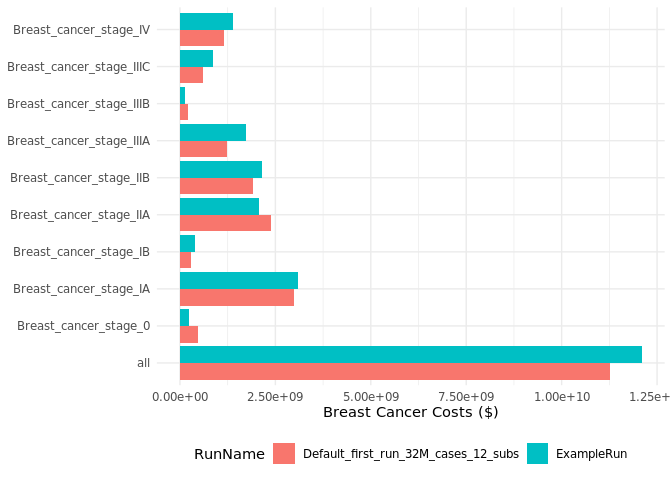
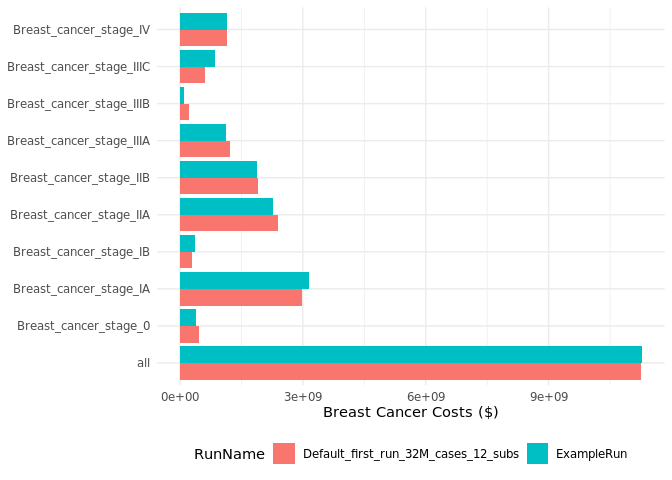
README updates

diff --git a/README.md b/README.md
@@ -108,7 +108,7 @@ get_worksets('OncoSimX-breast')
 #>   ModelName     ModelDigest ModelVersion ModelCreateDateTime Name  BaseRunDigest
 #>   <chr>         <chr>       <chr>        <chr>               <chr> <chr>        
 #> 1 OncoSimX-bre… 528f94c152… 3.6.1.5      2023-06-13 15:54:0… Defa… ""           
-#> 2 OncoSimX-bre… 528f94c152… 3.6.1.5      2023-06-13 15:54:0… MyNe… "e588fec0286…
+#> 2 OncoSimX-bre… 528f94c152… 3.6.1.5      2023-06-13 15:54:0… MyNe… ""           
 #> # ℹ 5 more variables: IsReadonly <lgl>, UpdateDateTime <chr>,
 #> #   IsCleanBaseRun <lgl>, Txt <list<tibble[,3]>>, Param <list>
 ```
@@ -179,19 +179,26 @@ parameter from the base run and extract it to a CSV file for editing.
 new_scenario <- load_scenario('OncoSimX-breast', 'MyNewScenario')
 new_scenario$copy_param('ProvincesOfInterest')
 new_scenario$extract_param('ProvincesOfInterest')
+new_scenario$upload_params()
 ```
 
 We didn’t make any changes to the parameters, but we will run the model
 anyway. We will give it the name `'ExampleRun'`. We use the
 `wait = TRUE` flag to make sure we want for the model run to finish
 before returning to our R session. Note that model runs may take a long
-time.
+time when the number of simulation cases is large.
 
 ``` r
 new_scenario$run('ExampleRun', wait = TRUE)
 ```
 
-Now that our model run is complete, lets load it into memory.
+Note that we can use the `opts` argument and the `opts_run()` function
+to configure our run. By default, models are run with 5,000 simulation
+cases and 12 SubValues. This allows for quick model runs and faster
+iteration, but users will want to increase the number of simulation
+cases when performing a full model run.
+
+Now that our model run is complete, let’s load it into memory.
 
 ``` r
 example_run <- load_run('OncoSimX-breast', 'ExampleRun')
@@ -201,7 +208,7 @@ example_run
 #> → ModelDigest: 528f94c1525c994b010d84507ed7903f
 #> → ModelVersion: 3.6.1.5
 #> → RunName: ExampleRun
-#> → RunDigest: d9f62bf0bd4f1a80b95daa4338b5d001
+#> → RunDigest: f5387acf02f27944e323fac795f1bba6
 ```
 
 We can now extract an output table from this model run using
@@ -218,16 +225,17 @@ example_run$get_table('Breast_Cancer_Cases_Table')
 #>  4 Incidence_of_i_x_d_DCIS_combined Newfoundland_and_Labrador  2018 0           
 #>  5 Incidence_of_i_x_d_DCIS_combined Newfoundland_and_Labrador  2019 0           
 #>  6 Incidence_of_i_x_d_DCIS_combined Newfoundland_and_Labrador  2020 0           
-#>  7 Incidence_of_i_x_d_DCIS_combined Newfoundland_and_Labrador  2021 1722.898548…
+#>  7 Incidence_of_i_x_d_DCIS_combined Newfoundland_and_Labrador  2021 861.5526521…
 #>  8 Incidence_of_i_x_d_DCIS_combined Newfoundland_and_Labrador  2022 0           
-#>  9 Incidence_of_i_x_d_DCIS_combined Newfoundland_and_Labrador  2023 0           
+#>  9 Incidence_of_i_x_d_DCIS_combined Newfoundland_and_Labrador  2023 861.5526521…
 #> 10 Incidence_of_i_x_d_DCIS_combined Newfoundland_and_Labrador  2024 0           
 #> # ℹ 8,167 more rows
 ```
 
 Great, we have created a new scenario, extracted some parameters to
-potentially modify, ran the model, and extracted output tables. In this
-last step, we will load multiple model runs into memory to compare them.
+potentially modify, uploaded the parameters, ran the model, and
+extracted output tables. In this last step, we will load multiple model
+runs into memory to compare them.
 
 ``` r
 breast_runs <- load_runs('OncoSimX-breast', breast$run_list$RunDigest)
@@ -237,7 +245,7 @@ breast_runs
 #> → ModelDigest: 528f94c1525c994b010d84507ed7903f
 #> → ModelVersion: 3.6.1.5
 #> → RunNames: [Default_first_run_32M_cases_12_subs, ExampleRun]
-#> → RunDigests: [e588fec0286ad7cacb1cdb32f947898a, d9f62bf0bd4f1a80b95daa4338b5d001]
+#> → RunDigests: [e588fec0286ad7cacb1cdb32f947898a, f5387acf02f27944e323fac795f1bba6]
 ```
 
 We will extract a new table from both models. Note that an extra column,
